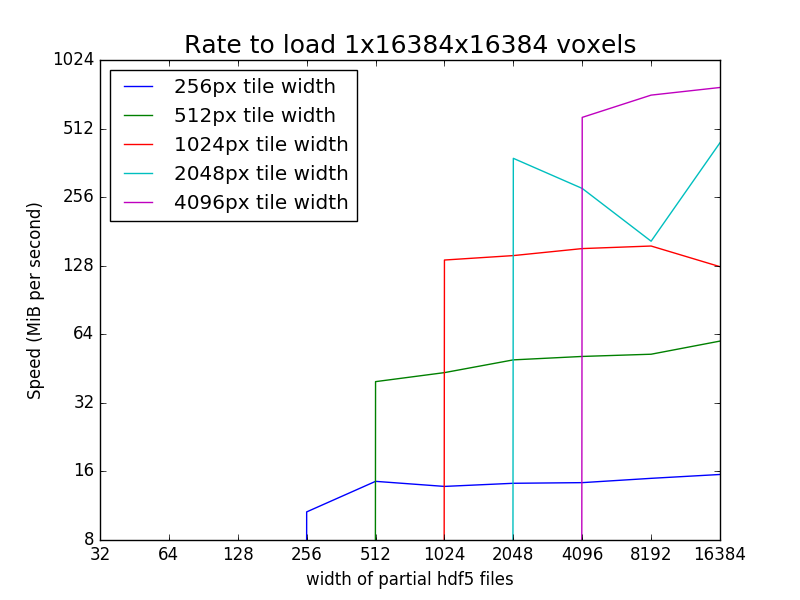
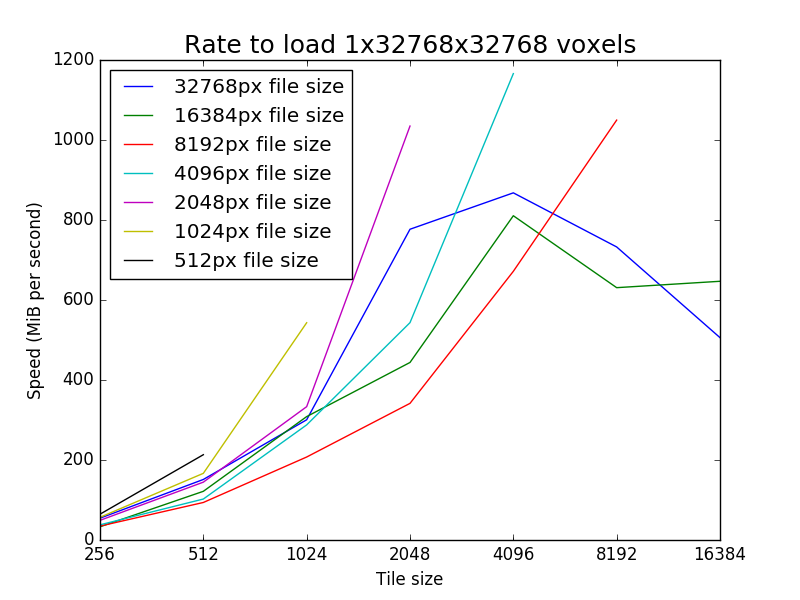
graph_data.py now plots each file size as a line across tile sizes

diff --git a/scripts/h5_tile_test/graph_data.py b/scripts/h5_tile_test/graph_data.py
@@ -34,22 +34,29 @@ if __name__ == '__main__':
     mean_speeds = np.mean(all_speeds, 0)
 
     ##### 
-    # Plot rate by h5 file width
-    # Plot lines for all tile widths
+    # Plot rate by h5 tile width
+    # Plot lines for all file widths
     #####
     # Set up the plot
     fig, ax = plt.subplots()
-    for tile_i, tile_x in enumerate(tiles_x):
+    for file_i, file_x in enumerate(files_x):
         # Get rates for given tile shape
-        tile_rates = mean_speeds[:, tile_i]
-
+        file_rates = mean_speeds[file_i, :]
+        
+        # Find only where values are nonzero
+        real_rates = np.nonzero(file_rates)[0]
+        if not len(real_rates) > 1:
+            continue
+        # Filter tiles_x and rates by nonzero
+        real_tiles_x = tiles_x[real_rates]
+        real_files_r = file_rates[real_rates]
         # Plot the rates for this tile shape
-        tile_label = '{}px tile width'.format(tile_x)
-        ax.plot(files_x, tile_rates, label=tile_label)
+        file_label = '{}px file size'.format(file_x)
+        ax.plot(real_tiles_x, real_files_r, label=file_label)
 
     # Power of 2 X axis
     ax.set_xscale('log', basex=2)
-    ax.set_yscale('log', basey=2)
+#    ax.set_yscale('log', basey=2)
     ax.xaxis.set_major_formatter(FormatStrFormatter('%d'))
     ax.yaxis.set_major_formatter(FormatStrFormatter('%d'))
 
@@ -68,7 +75,7 @@ if __name__ == '__main__':
 
     # Label the graph
     plt.ylabel('Speed (MiB per second)')
-    plt.xlabel('width of partial hdf5 files')
+    plt.xlabel('Tile size')
     title_fmt = 'Rate to load {}x{}x{} voxels'
     # Make a big title
     title_font = dict(fontsize=18)

diff --git a/scripts/h5_tile_test/record_data.py b/scripts/h5_tile_test/record_data.py
@@ -102,10 +102,6 @@ Writing file {}""".format(f_n))
         timed = 0
         # Load all files
         for f_n in _files:
-            # Written the full file
-            print("""
-Loading file {}""".format(f_n))
-            sys.stdout.flush()
             # Load all for this file name
             load_fn = partial(load_h, _tsize, f_n)
             # Add the time to load one file
@@ -206,6 +202,7 @@ if __name__ == '__main__':
       [1, 4096, 4096],
       [1, 8192, 8192],
       [1, 2**14, 2**14],
+      [1, 2**15, 2**15],
     ])
     # Get the total mebibytes
     full_bytes = voxel_bytes * np.prod(full_shape)
